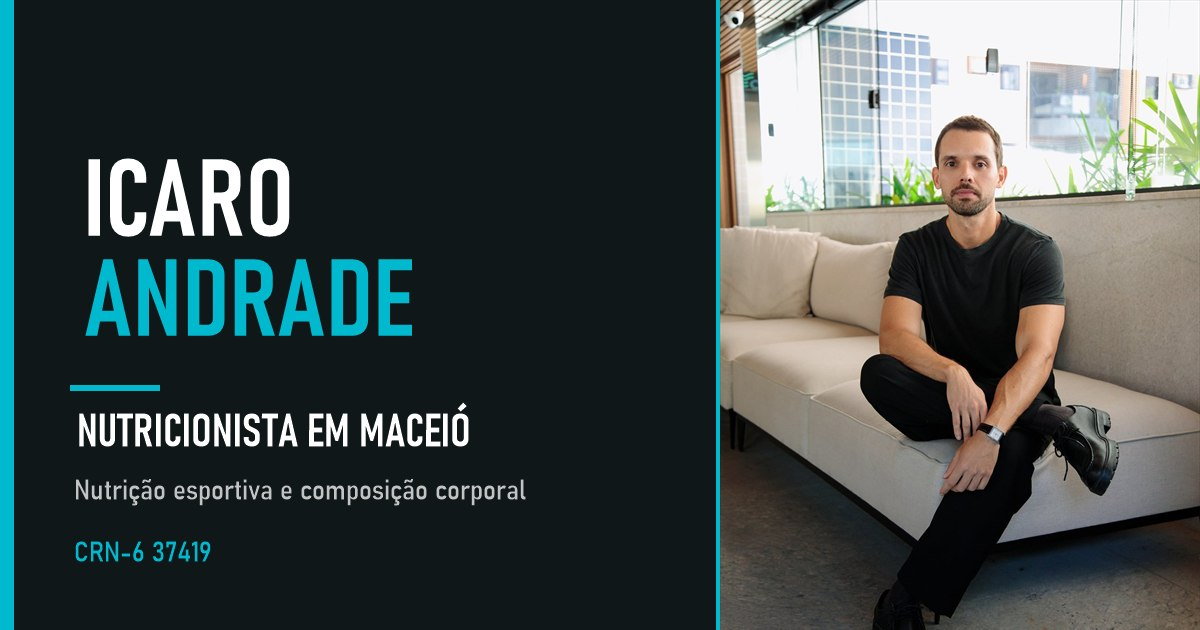
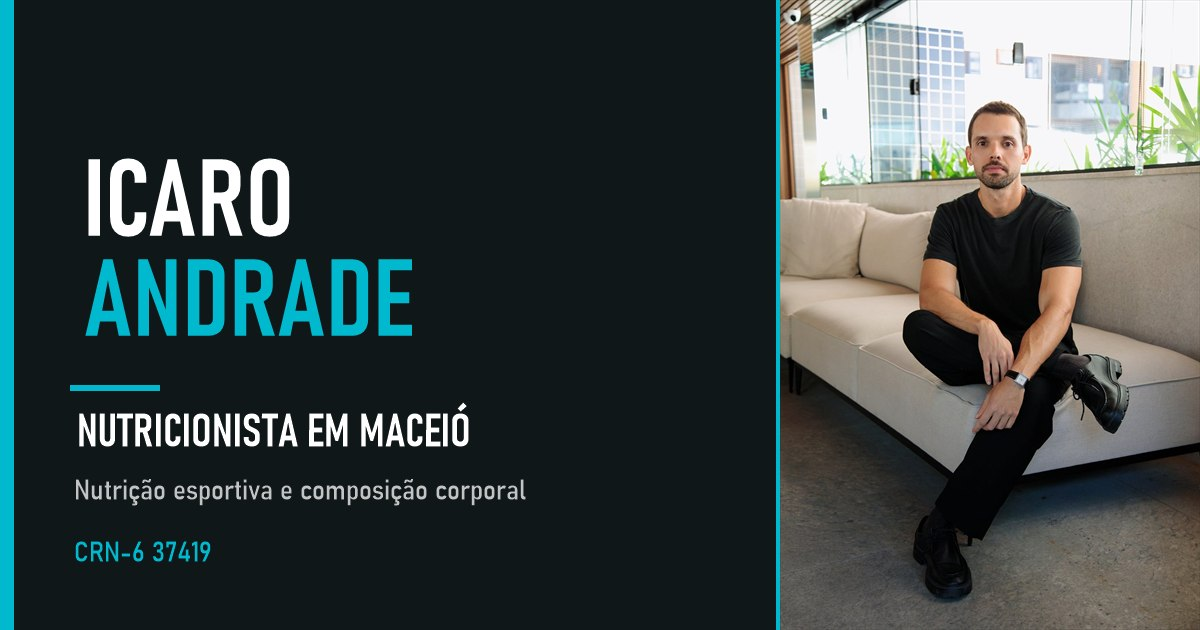
fix: show full-body hero photo without cropping (site and OG image)

Changed region(s): [[0.5858, 0.0, 1.0, 1.0], [0.9867, 0.9952, 1.0, 1.0]]

diff --git a/src/components/sections/HeroSection.tsx b/src/components/sections/HeroSection.tsx
@@ -52,14 +52,14 @@ export default function HeroSection() {
           <div className="lg:col-span-5 relative max-w-md lg:max-w-none">
             <div className="lg:absolute lg:inset-0 flex flex-col">
               <figure className="flex flex-col lg:flex-1 lg:min-h-0">
-                <div className="relative aspect-[4/5] lg:aspect-auto lg:flex-1 lg:min-h-0 bg-deep overflow-hidden">
+                <div className="relative aspect-[2/3] lg:aspect-auto lg:flex-1 lg:min-h-0 overflow-hidden">
                   <Image
                     src="/images/hero.jpeg"
                     alt="Icaro Andrade, nutricionista"
                     fill
                     priority
                     sizes="(min-width: 1024px) 480px, (min-width: 640px) 50vw, 100vw"
-                    className="object-cover object-top"
+                    className="object-cover lg:object-contain object-center"
                   />
                 </div>
                 <figcaption className="mt-3 flex items-start gap-3 font-display text-sm font-bold uppercase tracking-[0.12em] leading-snug">

diff --git a/identidade_visual_curso_antropometria_importacao.md b/identidade_visual_curso_antropometria_importacao.md
@@ -323,4 +323,5 @@ Você também atende online?
 - **2026-11-12 (nova ordem):** seções reordenadas conforme o PDF "Nova ordem": Hero, A mesma ciência (atletas), Estratégia sob medida, Primeiro contato, Estrutura de trabalho, A balança, Quem está por trás, Formatos, Local, Dúvidas. A seção dos atletas passou a fundo `surface` para alternar o fundo depois do Hero.
 - **2026-11-12 (Dúvidas e rodapé):** Dúvidas ganhou na coluna esquerda uma frase e o botão "Falar pelo WhatsApp" (antes a coluna ficava vazia) e linhas mais compactas; rodapé em 3 colunas de largura igual (4 de 12), com o Menu em 2 colunas de links para igualar a altura das três.
 - **2026-11-12 (OG, régua e CRN):** adicionados `openGraph` (e Twitter card) no `layout.tsx` com a imagem `public/og-image.jpg` (1200x630: foto do Icaro, título "Icaro Andrade / Nutricionista em Maceió" e CRN-6 37419) e `metadataBase` em https://nutricaolandingpage.vercel.app; régua mais curta, cheia e à vista na etapa 04, com `aria-current` no marco ativo; o registro passou a ser escrito **CRN-6 37419** em todo o site e neste arquivo (formato usual; substitui a grafia CRN 637419 do dia anterior).
+- **2026-11-12 (foto sem recorte):** a foto do Hero passou a aparecer inteira (corpo todo), sem recorte, no site e na imagem de compartilhamento (`og-image.jpg` refeita com a foto completa).
 - **2026-11-11 (balança):** foto "Mesmo peso na balança" ampliada: o box passou a ocupar metade da largura (6 de 12 colunas) com menos preenchimento interno, e a imagem voltou ao tamanho original (1145x912).
